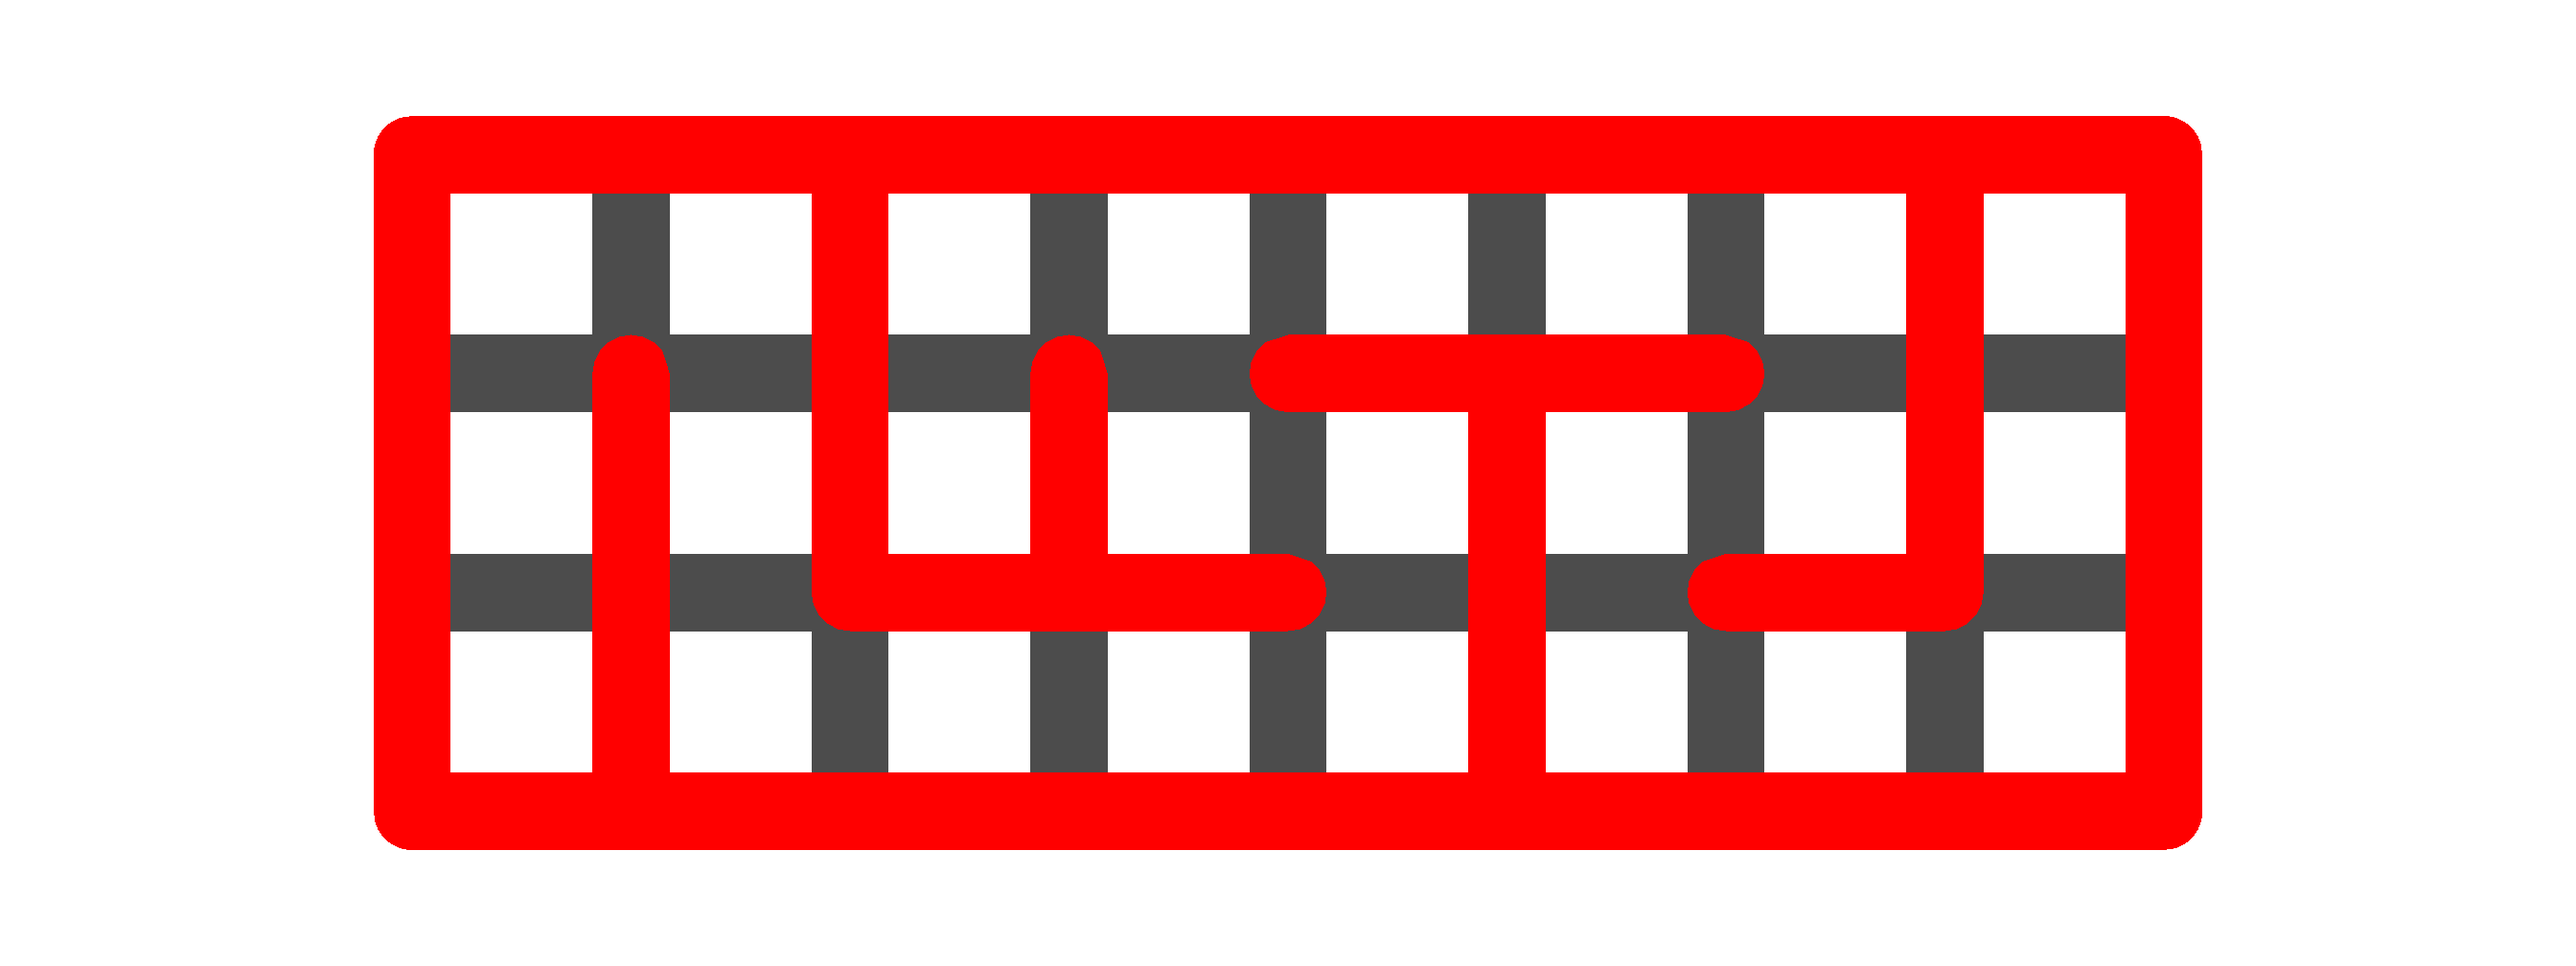
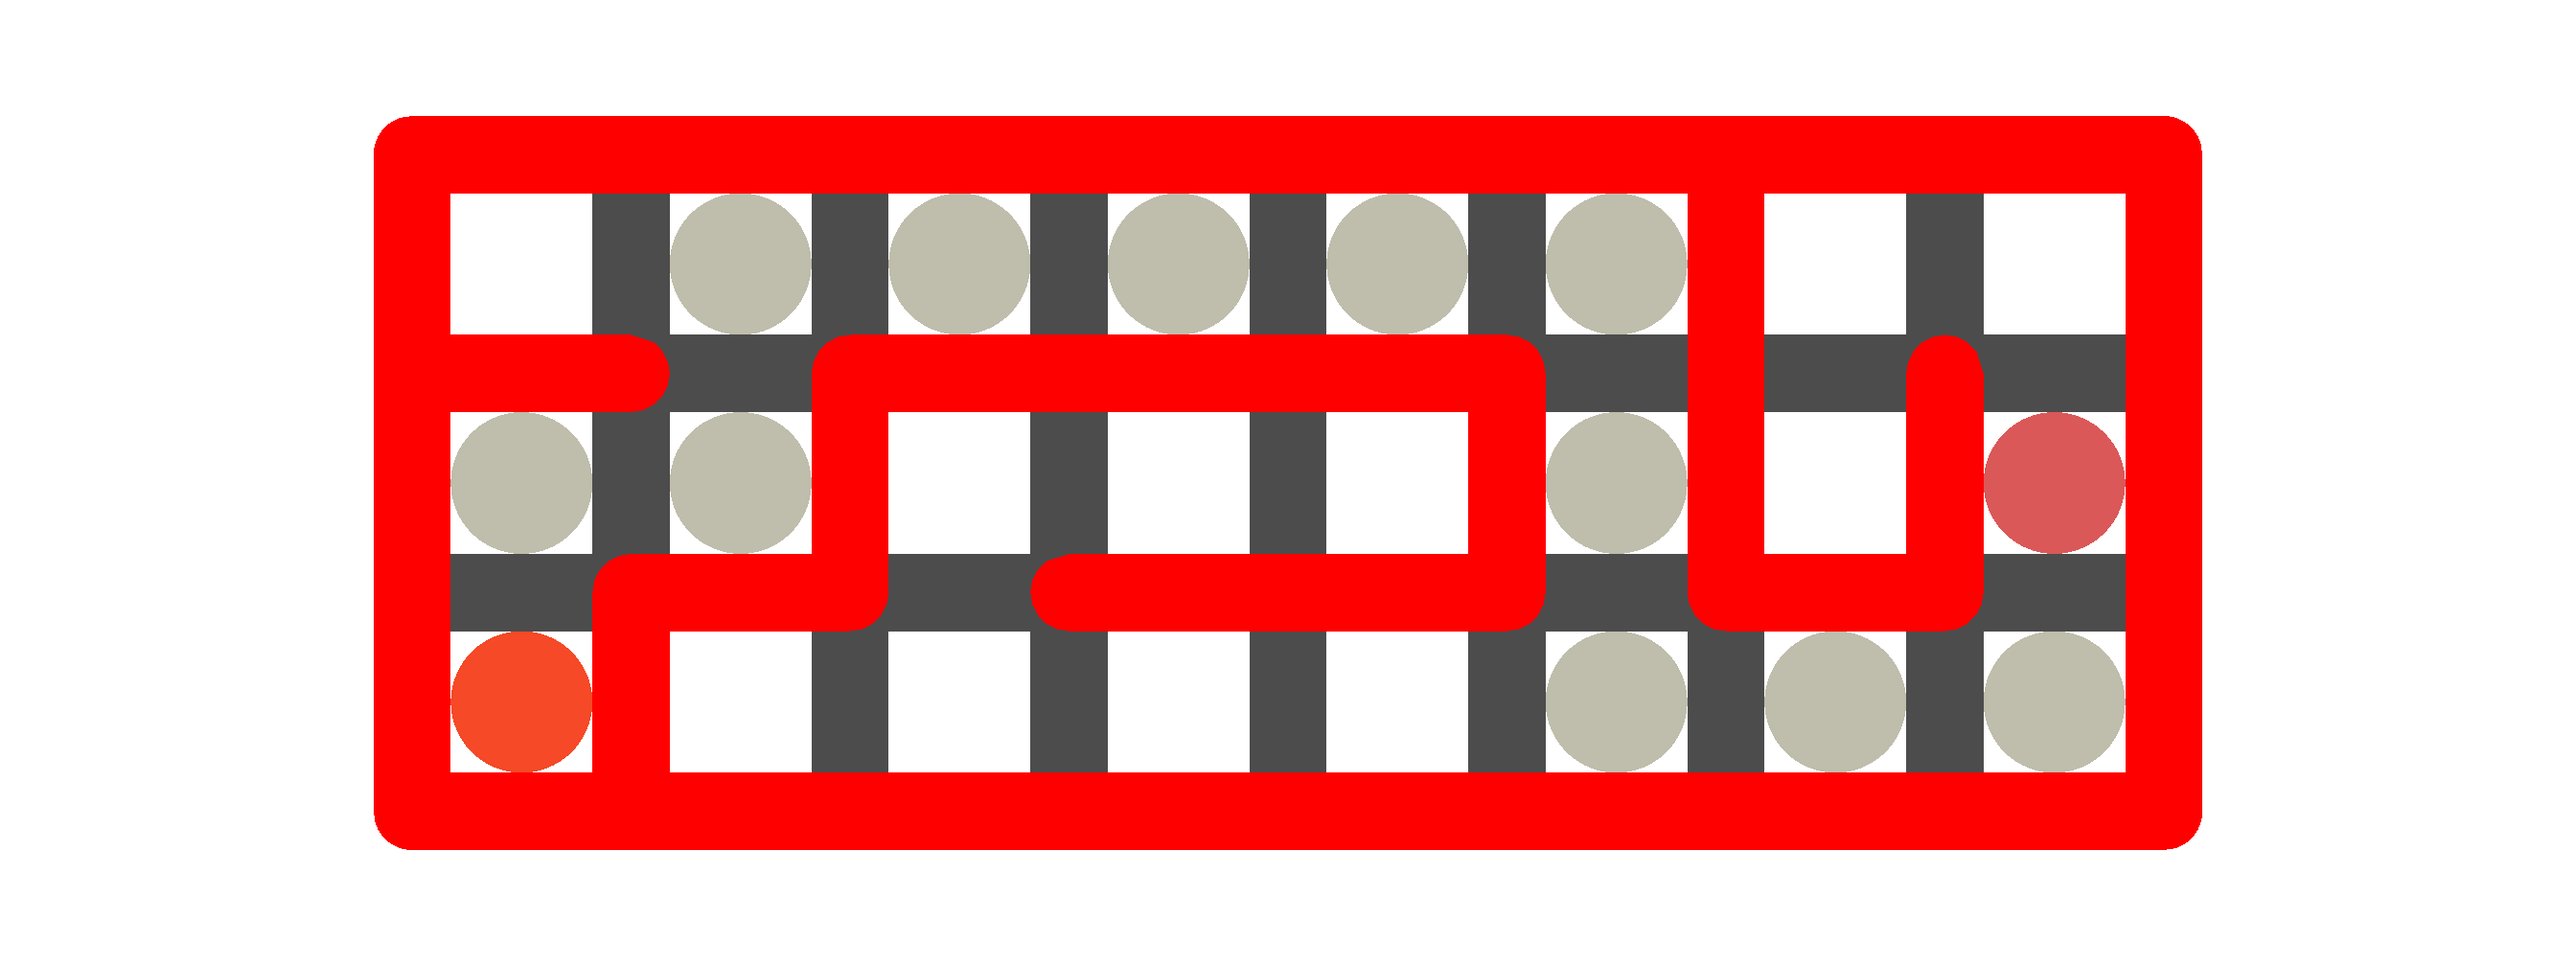
labirent imaj boyut-konum düzeltme 5

diff --git a/grafik_pencere_dosya.py b/grafik_pencere_dosya.py
@@ -183,30 +183,47 @@ class LabirentStatikImaj(StatikImaj):
                 self.__guncelKenarlikKalinlik=self.__hesaplaKenarlikKalinlik(self.guncelGenislikCanvas)
                 self.__guncelHucreKenarUzunluk=self.__hesaplaHucreKenarUzunluk(self.guncelYukseklikRender,self.labirent.satirSayi,self.guncelKenarlikKalinlik)
 
-    def hucreXY(self,hucreNokta,hucre,saha):#konumu verilen hücreye, robotu çizebilmek için gerekli koordinatlar   
-        solX=self.guncelSolXRender(saha)
-        ustY=self.guncelUstYRender(saha)
-        altY=self.guncelAltYRender(saha)
-        x=solX+(hucre.sutunNumara)*(self.guncelGenislikRender/self.labirent.sutunSayi)   
-        y=ustY-(hucre.satirNumara+1)*(self.guncelYukseklikRender/self.labirent.satirSayi)
-        
+    def hucreXY(self,hucreNokta,hucre,saha=None):#konumu verilen hücreye; robotu, sensörleri vs. çizebilmek için gerekli koordinatlar   
+        if saha is None:#texture oluşturulur iken
+            solX=self.gercekSolXRender
+            ustY=self.gercekUstYRender
+            altY=self.gercekAltYRender
+            genislik=self.gercekGenislikRender
+            yukselik=self.gercekYukseklikRender
+            hucreKenarUzunluk=self.gercekHucreKenarUzunluk
+            kenarlikKalinlik=self.gercekKenarlikKalinlik
+        else:        
+            solX=self.guncelSolXRender(saha)
+            ustY=self.guncelUstYRender(saha)
+            altY=self.guncelAltYRender(saha)
+            genislik=self.guncelGenislikRender
+            yukselik=self.guncelYukseklikRender
+            hucreKenarUzunluk=self.guncelHucreKenarUzunluk
+            kenarlikKalinlik=self.guncelKenarlikKalinlik
+            
         match hucreNokta:
             case HucreNokta.MERKEZ:
-                x=solX+(hucre.sutunNumara)*(self.guncelGenislikRender/self.labirent.sutunSayi)+self.guncelHucreKenarUzunluk/2+self.guncelKenarlikKalinlik
-                y=ustY-(hucre.satirNumara+1)*(self.guncelYukseklikRender/self.labirent.satirSayi)+self.guncelHucreKenarUzunluk/2+self.guncelKenarlikKalinlik
+                x=solX+(hucre.sutunNumara)*(genislik/self.labirent.sutunSayi)+hucreKenarUzunluk/2+kenarlikKalinlik
+                y=ustY-(hucre.satirNumara+1)*(yukselik/self.labirent.satirSayi)+hucreKenarUzunluk/2+kenarlikKalinlik
             case HucreNokta.SOL:
-                x=solX+(hucre.sutunNumara)*(self.guncelGenislikRender/self.labirent.sutunSayi)
-                y=ustY-(hucre.satirNumara+1)*(self.guncelYukseklikRender/self.labirent.satirSayi)+self.guncelHucreKenarUzunluk/2+self.guncelKenarlikKalinlik
+                x=solX+(hucre.sutunNumara)*(genislik/self.labirent.sutunSayi)
+                y=ustY-(hucre.satirNumara+1)*(yukselik/self.labirent.satirSayi)+hucreKenarUzunluk/2+kenarlikKalinlik
             case HucreNokta.ALT:
-                x=solX+(hucre.sutunNumara)*(self.guncelGenislikRender/self.labirent.sutunSayi)+self.guncelHucreKenarUzunluk/2+self.guncelKenarlikKalinlik
-                y=ustY-(hucre.satirNumara+1)*(self.guncelYukseklikRender/self.labirent.satirSayi)
+                x=solX+(hucre.sutunNumara)*(genislik/self.labirent.sutunSayi)+hucreKenarUzunluk/2+kenarlikKalinlik
+                y=ustY-(hucre.satirNumara+1)*(yukselik/self.labirent.satirSayi)
             case HucreNokta.SAG:
-                return (x+self.guncelHucreKenarUzunluk+2*self.guncelKenarlikKalinlik,y+self.guncelHucreKenarUzunluk/2+self.guncelKenarlikKalinlik)
+                x=solX+(hucre.sutunNumara+1)*(genislik/self.labirent.sutunSayi)
+                y=ustY-(hucre.satirNumara+1)*(yukselik/self.labirent.satirSayi)+hucreKenarUzunluk/2+kenarlikKalinlik
             case HucreNokta.UST:
-                x=solX+(hucre.sutunNumara)*(self.guncelGenislikRender/self.labirent.sutunSayi)+self.guncelHucreKenarUzunluk/2+self.guncelKenarlikKalinlik
-                y=altY+(hucre.satirNumara)*(self.guncelYukseklikRender/self.labirent.satirSayi)
-                print(hucre.satirNumara)
-                
+                x=solX+(hucre.sutunNumara)*(genislik/self.labirent.sutunSayi)+hucreKenarUzunluk/2+kenarlikKalinlik
+                y=altY+(hucre.satirNumara+1)*(yukselik/self.labirent.satirSayi)
+            case HucreNokta.SOL_ALT:
+                x=solX+(hucre.sutunNumara)*(genislik/self.labirent.sutunSayi)+kenarlikKalinlik
+                y=ustY-(hucre.satirNumara+1)*(yukselik/self.labirent.satirSayi)+kenarlikKalinlik
+            case HucreNokta.SAG_ALT:
+                x=solX+(hucre.sutunNumara+1)*(genislik/self.labirent.sutunSayi)-kenarlikKalinlik
+                y=ustY-(hucre.satirNumara+1)*(yukselik/self.labirent.satirSayi)+kenarlikKalinlik
+
         return (x,y)
         
 
@@ -316,12 +333,8 @@ class LabirentStatikImaj(StatikImaj):
         # Kivy Fbo varsayılan olarak transparan gelebilir. Arka planı temizliyoruz.
         fbo.clear_buffer()
 
-
-        # 2. Çizim komutlarını Fbo canvas'ına ekliyoruz
         with fbo:
             self.__izgaraCiz()
-
-            # Kenarlık rengi ve çerçeve çizimi
 
             Color(rgba=LabirentSabit.KENARLIK_RENK)
             self.__cizCerceve()
@@ -331,20 +344,15 @@ class LabirentStatikImaj(StatikImaj):
             
             # Çözüm yolu veya Başlangıç/Bitiş hücrelerinin boyanması
             hucreTip=HucreSabit.TIP[HucreSabit.TIP_YOL_ANAHTAR]
-            #for hucre in self.cozumYolu:
-                #self.__boyaHucre(labirent,solX,ustY,hucre,hucreTip[HucreSabit.TIP_UZUNLUK_CARPAN_ANAHTAR],hucreTip[HucreSabit.TIP_RENK_ANAHTAR])
             for hucreNumara in range(self.labirent.cozumYoluUzunluk):
-                pass#self.__boyaHucre(solX,ustY,self.labirent.cozumYoluHucre(hucreNumara),hucreTip[HucreSabit.TIP_UZUNLUK_CARPAN_ANAHTAR],hucreTip[HucreSabit.TIP_RENK_ANAHTAR])
-
+                self.__boyaHucre(self.labirent.cozumYoluHucre(hucreNumara),hucreTip[HucreSabit.TIP_UZUNLUK_CARPAN_ANAHTAR],hucreTip[HucreSabit.TIP_RENK_ANAHTAR])
 
             hucreTip=HucreSabit.TIP[HucreSabit.TIP_BASLANGIC_ANAHTAR]
-            pass#self.__boyaHucre(solX,ustY,Konum(self.labirent.baslangicSatirNumara,self.labirent.baslangicSutunNumara),hucreTip[HucreSabit.TIP_UZUNLUK_CARPAN_ANAHTAR],hucreTip[HucreSabit.TIP_RENK_ANAHTAR])
-            
+            self.__boyaHucre(Konum(self.labirent.baslangicSatirNumara,self.labirent.baslangicSutunNumara),hucreTip[HucreSabit.TIP_UZUNLUK_CARPAN_ANAHTAR],hucreTip[HucreSabit.TIP_RENK_ANAHTAR])
+
             hucreTip=HucreSabit.TIP[HucreSabit.TIP_BITIS_ANAHTAR]
-            pass#self.__boyaHucre(solX,ustY,Konum(self.labirent.bitisSatirNumara,self.labirent.bitisSutunNumara),hucreTip[HucreSabit.TIP_UZUNLUK_CARPAN_ANAHTAR],hucreTip[HucreSabit.TIP_RENK_ANAHTAR])
+            self.__boyaHucre(Konum(self.labirent.bitisSatirNumara,self.labirent.bitisSutunNumara),hucreTip[HucreSabit.TIP_UZUNLUK_CARPAN_ANAHTAR],hucreTip[HucreSabit.TIP_RENK_ANAHTAR])
 
-
-        # 3. Fbo üzerindeki çizimleri ekrana yansıtılmaya hazır bir doku (texture) olarak çekiyoruz
         fbo.draw()
 
         return fbo.texture
@@ -363,9 +371,10 @@ class LabirentStatikImaj(StatikImaj):
         for satirNumara in range(self.labirent.satirSayi):
             for sutunNumara in range(self.labirent.sutunSayi-1):
                 duvar=self.labirent.duvar(self.labirent.hucre(satirNumara,sutunNumara),self.labirent.hucre(satirNumara,sutunNumara+1))
-                if duvar.durum==DuvarDurum.KAPALI:                    
-                    x=self.gercekSolXRender+self.gercekHucreKenarUzunluk*(sutunNumara+1)                    
-                    y1=self.gercekUstYRender-(self.gercekHucreKenarUzunluk)*satirNumara
+                if duvar.durum==DuvarDurum.KAPALI:
+                    x,y1=self.hucreXY(HucreNokta.SAG_ALT,self.labirent.hucre(satirNumara,sutunNumara))    
+                    x+=self.gercekKenarlikKalinlik           
+                    y1+=self.gercekHucreKenarUzunluk-self.gercekKenarlikKalinlik
                     y2=y1-self.gercekHucreKenarUzunluk
                     Line(width=self.gercekKenarlikKalinlik,points=(x,y1,x,y2))
 
@@ -373,20 +382,20 @@ class LabirentStatikImaj(StatikImaj):
             for satirNumara in range(self.labirent.satirSayi-1):
                 duvar=self.labirent.duvar(self.labirent.hucre(satirNumara,sutunNumara),self.labirent.hucre(satirNumara+1,sutunNumara))
                 if duvar.durum==DuvarDurum.KAPALI:
-                    x1=self.gercekSolXRender+self.gercekHucreKenarUzunluk*sutunNumara
-                    y=self.gercekUstYRender-self.gercekHucreKenarUzunluk*(satirNumara+1)
+                    x1,y=self.hucreXY(HucreNokta.SOL_ALT,self.labirent.hucre(satirNumara,sutunNumara))
+                    x1-=self.gercekKenarlikKalinlik
+                    y-=self.gercekKenarlikKalinlik
                     x2=x1+self.gercekHucreKenarUzunluk
                     Line(width=self.gercekKenarlikKalinlik,points=(x1,y,x2,y))
 
-    def __boyaHucre(self,solX,ustY,konum,uzunlukCarpan,renk):
+    def __boyaHucre(self,konum,uzunlukCarpan,renk):
         Color(renk["r"],renk["g"],renk["b"],renk["a"])
         
-        hucre=self.labirent.hucre(konum.satirNumara,konum.sutunNumara)
-
-        x=solX+self.gercekHucreKenarUzunluk*hucre.sutunNumara+self.gercekKenarlikKalinlik+self.gercekHucreKenarUzunluk/2-uzunlukCarpan*self.gercekHucreKenarUzunluk/2
-        y=ustY-self.gercekKenarlikKalinlik*2-self.gercekHucreKenarUzunluk*(1+hucre.satirNumara)+self.gercekKenarlikKalinlik+self.gercekHucreKenarUzunluk/2-uzunlukCarpan*self.gercekHucreKenarUzunluk/2
-
+        hucre=self.labirent.hucre(konum.satirNumara,konum.sutunNumara)        
+        x,y=self.hucreXY(HucreNokta.SOL_ALT,hucre)
+        
         olcu=uzunlukCarpan*self.gercekHucreKenarUzunluk-2*self.gercekKenarlikKalinlik
+
         Ellipse(size=(olcu,olcu),pos=(x,y))
 
     def __hesaplaKenarlikKalinlik(self,olcu):#olcu; genişlik ya da yükseklik olacaktır

diff --git a/labirent.py b/labirent.py
@@ -441,25 +441,42 @@ class Yarisma:
                 Color(0,1,0,1)
                 for i in range(self.__labirent.satirSayi):
                     for j in range(self.__labirent.sutunSayi):
+                        
+                        olcu=self.__labirentImaj.guncelKenarlikKalinlik
+
                         Color(1,0,0,1)
                         x,y=self.__labirentImaj.hucreXY(HucreNokta.MERKEZ,Hucre(i,j),self.__saha)
-                        Rectangle(size=(olcu,olcu),pos=(x-olcu/2,y-olcu/2))
+                        #Rectangle(size=(olcu,olcu),pos=(x-olcu/2,y-olcu/2))
 
                         Color(0,1,0,1)
                         x,y=self.__labirentImaj.hucreXY(HucreNokta.SOL,Hucre(i,j),self.__saha)
-                        Rectangle(size=(olcu,olcu),pos=(x-olcu/2,y-olcu/2))
+                        #Rectangle(size=(olcu,olcu),pos=(x-olcu/2,y-olcu/2))
 
                         Color(0,0,1,1)
                         x,y=self.__labirentImaj.hucreXY(HucreNokta.ALT,Hucre(i,j),self.__saha)
-                        Rectangle(size=(olcu*1.25,olcu*1.25),pos=(x-olcu*1.25/2,y-olcu*1.25/2))
+                        #Rectangle(size=(olcu,olcu),pos=(x-olcu/2,y-olcu/2))
 
-                        Color(1,1,0,1)
-                        x,y=self.__labirentImaj.hucreXY(HucreNokta.SAG,Hucre(i,j),self.__saha)
-                        Rectangle(size=(olcu,olcu),pos=(x-olcu/2,y-olcu/2))
+                        Color(.5,.5,0,1)
+                        x,y=self.__labirentImaj.hucreXY(HucreNokta.SOL_ALT,Hucre(i,j),self.__saha)
+                        #Rectangle(size=(olcu,olcu),pos=(x-olcu/2,y-olcu/2))
+
+                        olcu=self.__labirentImaj.guncelKenarlikKalinlik*1.25
+
+
 
                         Color(1,0,1,1)
                         x,y=self.__labirentImaj.hucreXY(HucreNokta.UST,Hucre(i,j),self.__saha)
-                        Rectangle(size=(olcu,olcu),pos=(x-olcu/2,y-olcu/2))
+                        #Rectangle(size=(olcu,olcu),pos=(x-olcu/2,y-olcu/2))
+
+                        Color(1,1,0,1)
+                        x,y=self.__labirentImaj.hucreXY(HucreNokta.SAG,Hucre(i,j),self.__saha)
+                        #Rectangle(size=(olcu,olcu),pos=(x-olcu/2,y-olcu/2))
+
+
+
+                        Color(.75,.75,0,1)
+                        x,y=self.__labirentImaj.hucreXY(HucreNokta.SAG_ALT,Hucre(i,j),self.__saha)
+                        #Rectangle(size=(olcu,olcu),pos=(x-olcu/2,y-olcu/2))
                 
 
 

diff --git a/sabitler.py b/sabitler.py
@@ -111,6 +111,8 @@ class HucreNokta(IntEnum):#hücrelerin sağ,sol,alt,üst kenarları ve merkez no
     ALT=2
     SAG=3
     UST=4
+    SOL_ALT=5
+    SAG_ALT=6
     
 
 #SABİT DEĞERLERİ İÇEREN STATİK SINIFLAR
